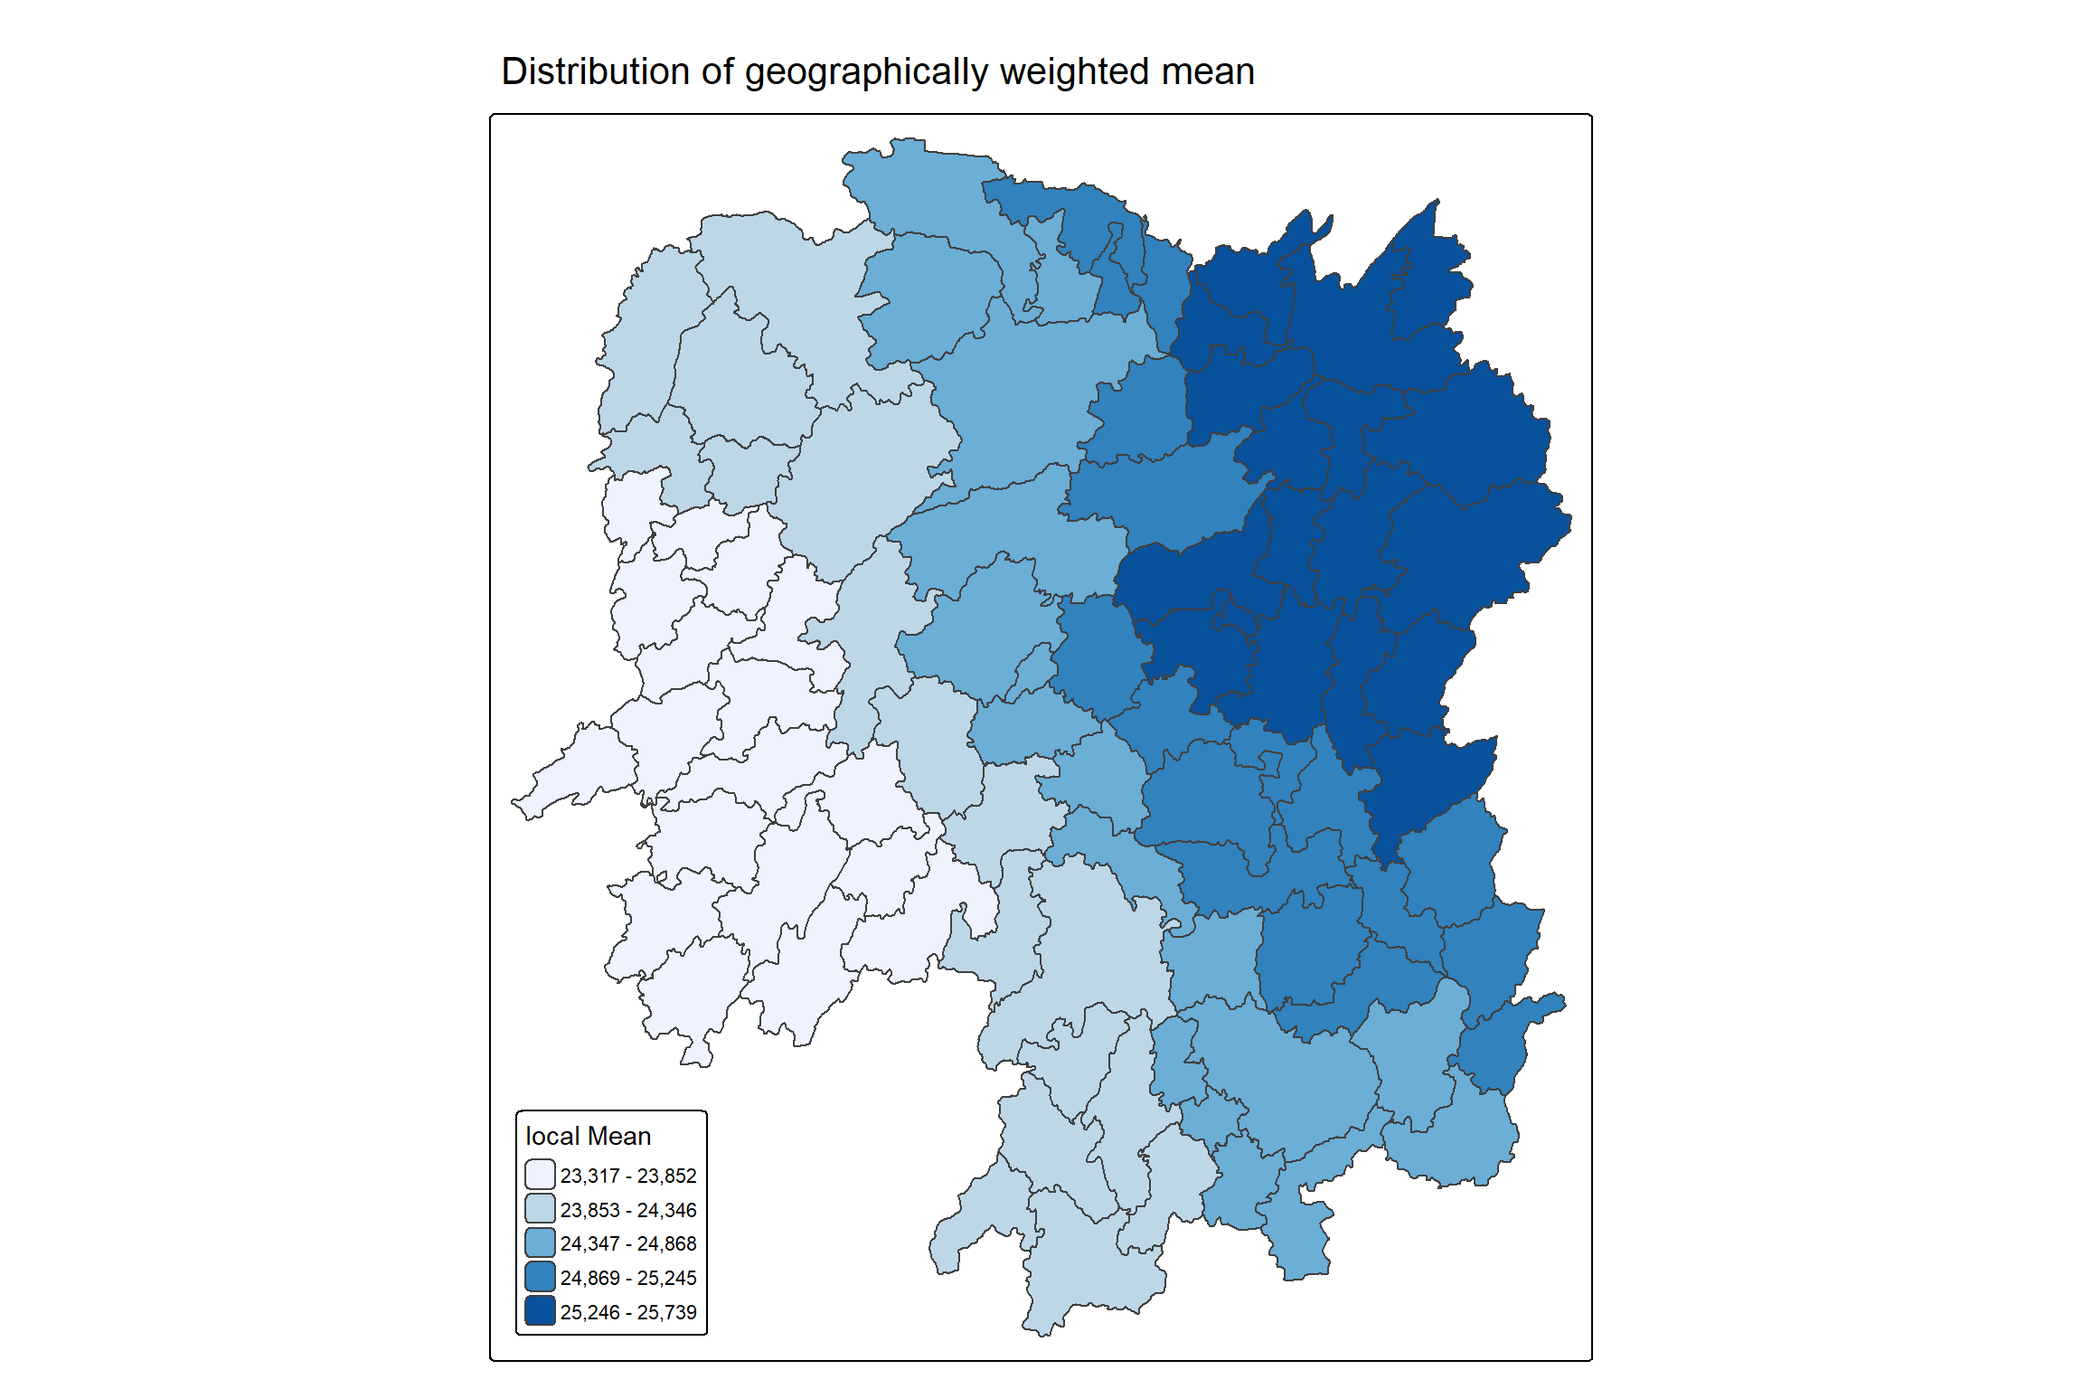
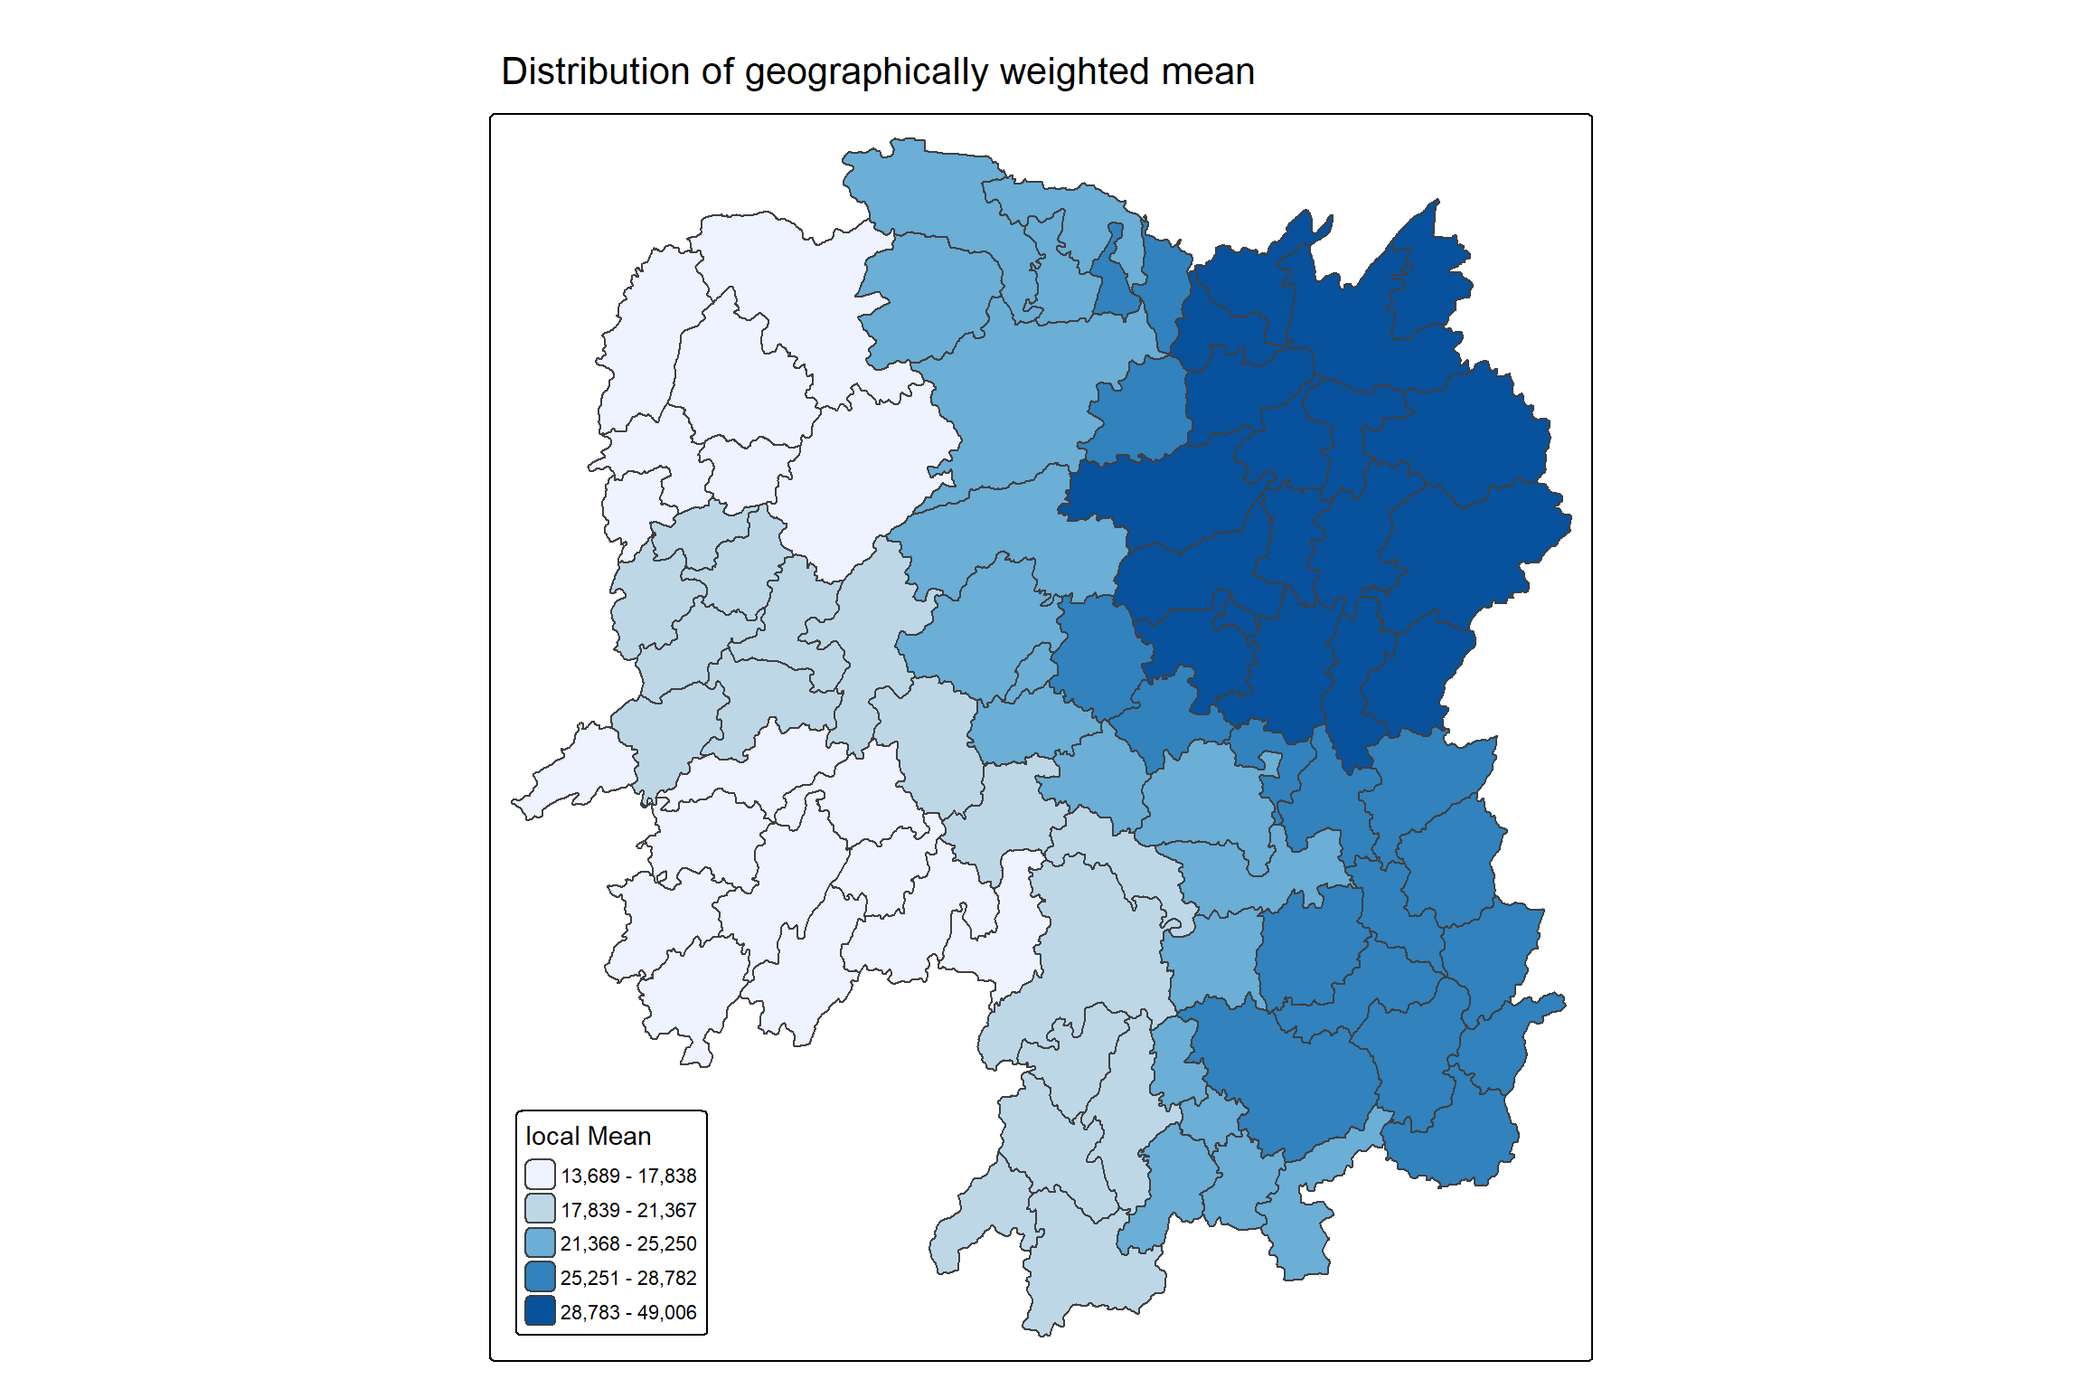
Commit after amending In-class_Ex04

diff --git a/_site/In-class_Ex/In-class_Ex04/In-class_Ex04.html b/_site/In-class_Ex/In-class_Ex04/In-class_Ex04.html
@@ -224,12 +224,12 @@ pre > code.sourceCode > span > a:first-child::before { text-decoration: underlin
   </ul></li>
   <li><a href="#visualising-regional-development-indicator" id="toc-visualising-regional-development-indicator" class="nav-link" data-scroll-target="#visualising-regional-development-indicator">4 Visualising Regional Development Indicator</a></li>
   <li><a href="#converting-to-spatial-polygon-dataframe" id="toc-converting-to-spatial-polygon-dataframe" class="nav-link" data-scroll-target="#converting-to-spatial-polygon-dataframe">5 Converting to Spatial Polygon DataFrame</a></li>
-  <li><a href="#geographically-weighted-summary-statistics-gsww-with-adaptive-bandwidth" id="toc-geographically-weighted-summary-statistics-gsww-with-adaptive-bandwidth" class="nav-link" data-scroll-target="#geographically-weighted-summary-statistics-gsww-with-adaptive-bandwidth">6 Geographically Weighted Summary Statistics (GSWW) with Adaptive Bandwidth</a>
+  <li><a href="#geographically-weighted-summary-statistics-gwss" id="toc-geographically-weighted-summary-statistics-gwss" class="nav-link" data-scroll-target="#geographically-weighted-summary-statistics-gwss">6 Geographically Weighted Summary Statistics (GWSS)</a>
   <ul>
   <li><a href="#determine-adaptive-bandwidth" id="toc-determine-adaptive-bandwidth" class="nav-link" data-scroll-target="#determine-adaptive-bandwidth">6.1 Determine Adaptive Bandwidth</a></li>
   <li><a href="#determine-fixed-bandwidth" id="toc-determine-fixed-bandwidth" class="nav-link" data-scroll-target="#determine-fixed-bandwidth">6.2 Determine Fixed Bandwidth</a></li>
-  <li><a href="#computing-geographically-weighted-summary-statistics" id="toc-computing-geographically-weighted-summary-statistics" class="nav-link" data-scroll-target="#computing-geographically-weighted-summary-statistics">6.3 Computing Geographically Weighted Summary Statistics</a></li>
-  <li><a href="#visualising-geographically-weighted-summary-statistics" id="toc-visualising-geographically-weighted-summary-statistics" class="nav-link" data-scroll-target="#visualising-geographically-weighted-summary-statistics">6.4 Visualising geographically weighted summary statistics</a></li>
+  <li><a href="#computing-gwss" id="toc-computing-gwss" class="nav-link" data-scroll-target="#computing-gwss">6.3 Computing GWSS</a></li>
+  <li><a href="#visualising-gwss" id="toc-visualising-gwss" class="nav-link" data-scroll-target="#visualising-gwss">6.4 Visualising GWSS</a></li>
   </ul></li>
   </ul>
 </nav>
@@ -396,8 +396,8 @@ Geodetic CRS:  WGS 84</code></pre>
 <span id="cb9-2"><a href="#cb9-2" aria-hidden="true" tabindex="-1"></a>  <span class="fu">as_Spatial</span>()</span></code></pre></div><button title="Copy to Clipboard" class="code-copy-button"><i class="bi"></i></button></div>
 </div>
 </section>
-<section id="geographically-weighted-summary-statistics-gsww-with-adaptive-bandwidth" class="level2">
-<h2 class="anchored" data-anchor-id="geographically-weighted-summary-statistics-gsww-with-adaptive-bandwidth">6 Geographically Weighted Summary Statistics (GSWW) with Adaptive Bandwidth</h2>
+<section id="geographically-weighted-summary-statistics-gwss" class="level2">
+<h2 class="anchored" data-anchor-id="geographically-weighted-summary-statistics-gwss">6 Geographically Weighted Summary Statistics (GWSS)</h2>
 <section id="determine-adaptive-bandwidth" class="level3">
 <h3 class="anchored" data-anchor-id="determine-adaptive-bandwidth">6.1 Determine Adaptive Bandwidth</h3>
 <div class="tabset-margin-container"></div><div class="panel-tabset">
@@ -405,7 +405,7 @@ Geodetic CRS:  WGS 84</code></pre>
 <div class="tab-content">
 <div id="tabset-1-1" class="tab-pane active" role="tabpanel" aria-labelledby="tabset-1-1-tab">
 <div class="cell">
-<div class="code-copy-outer-scaffold"><div class="sourceCode cell-code" id="cb10"><pre class="sourceCode r code-with-copy"><code class="sourceCode r"><span id="cb10-1"><a href="#cb10-1" aria-hidden="true" tabindex="-1"></a>bw_CV <span class="ot">&lt;-</span> <span class="fu">bw.gwr</span>(GDPPC <span class="sc">~</span> <span class="dv">1</span>,</span>
+<div class="code-copy-outer-scaffold"><div class="sourceCode cell-code" id="cb10"><pre class="sourceCode r code-with-copy"><code class="sourceCode r"><span id="cb10-1"><a href="#cb10-1" aria-hidden="true" tabindex="-1"></a>abw_CV <span class="ot">&lt;-</span> <span class="fu">bw.gwr</span>(GDPPC <span class="sc">~</span> <span class="dv">1</span>,</span>
 <span id="cb10-2"><a href="#cb10-2" aria-hidden="true" tabindex="-1"></a>                <span class="at">data =</span> hunan_sp,</span>
 <span id="cb10-3"><a href="#cb10-3" aria-hidden="true" tabindex="-1"></a>                <span class="at">approach =</span> <span class="st">"CV"</span>,</span>
 <span id="cb10-4"><a href="#cb10-4" aria-hidden="true" tabindex="-1"></a>                <span class="at">adaptive =</span> <span class="cn">TRUE</span>,</span>
@@ -420,7 +420,7 @@ Adaptive bandwidth: 26 CV score: 13898800611
 Adaptive bandwidth: 22 CV score: 13662299974 
 Adaptive bandwidth: 22 CV score: 13662299974 </code></pre>
 </div>
-<div class="code-copy-outer-scaffold"><div class="sourceCode cell-code" id="cb12"><pre class="sourceCode r code-with-copy"><code class="sourceCode r"><span id="cb12-1"><a href="#cb12-1" aria-hidden="true" tabindex="-1"></a>bw_CV</span></code></pre></div><button title="Copy to Clipboard" class="code-copy-button"><i class="bi"></i></button></div>
+<div class="code-copy-outer-scaffold"><div class="sourceCode cell-code" id="cb12"><pre class="sourceCode r code-with-copy"><code class="sourceCode r"><span id="cb12-1"><a href="#cb12-1" aria-hidden="true" tabindex="-1"></a>abw_CV</span></code></pre></div><button title="Copy to Clipboard" class="code-copy-button"><i class="bi"></i></button></div>
 <div class="cell-output cell-output-stdout">
 <pre><code>[1] 22</code></pre>
 </div>
@@ -428,7 +428,7 @@ Adaptive bandwidth: 22 CV score: 13662299974 </code></pre>
 </div>
 <div id="tabset-1-2" class="tab-pane" role="tabpanel" aria-labelledby="tabset-1-2-tab">
 <div class="cell">
-<div class="code-copy-outer-scaffold"><div class="sourceCode cell-code" id="cb14"><pre class="sourceCode r code-with-copy"><code class="sourceCode r"><span id="cb14-1"><a href="#cb14-1" aria-hidden="true" tabindex="-1"></a>bw_AIC <span class="ot">&lt;-</span> <span class="fu">bw.gwr</span>(GDPPC <span class="sc">~</span> <span class="dv">1</span>,</span>
+<div class="code-copy-outer-scaffold"><div class="sourceCode cell-code" id="cb14"><pre class="sourceCode r code-with-copy"><code class="sourceCode r"><span id="cb14-1"><a href="#cb14-1" aria-hidden="true" tabindex="-1"></a>abw_AIC <span class="ot">&lt;-</span> <span class="fu">bw.gwr</span>(GDPPC <span class="sc">~</span> <span class="dv">1</span>,</span>
 <span id="cb14-2"><a href="#cb14-2" aria-hidden="true" tabindex="-1"></a>                <span class="at">data =</span> hunan_sp,</span>
 <span id="cb14-3"><a href="#cb14-3" aria-hidden="true" tabindex="-1"></a>                <span class="at">approach =</span> <span class="st">"AICc"</span>,</span>
 <span id="cb14-4"><a href="#cb14-4" aria-hidden="true" tabindex="-1"></a>                <span class="at">adaptive =</span> <span class="cn">TRUE</span>,</span>
@@ -443,7 +443,7 @@ Adaptive bandwidth (number of nearest neighbours): 26 AICc value: 1914.897
 Adaptive bandwidth (number of nearest neighbours): 22 AICc value: 1914.045 
 Adaptive bandwidth (number of nearest neighbours): 22 AICc value: 1914.045 </code></pre>
 </div>
-<div class="code-copy-outer-scaffold"><div class="sourceCode cell-code" id="cb16"><pre class="sourceCode r code-with-copy"><code class="sourceCode r"><span id="cb16-1"><a href="#cb16-1" aria-hidden="true" tabindex="-1"></a>bw_AIC</span></code></pre></div><button title="Copy to Clipboard" class="code-copy-button"><i class="bi"></i></button></div>
+<div class="code-copy-outer-scaffold"><div class="sourceCode cell-code" id="cb16"><pre class="sourceCode r code-with-copy"><code class="sourceCode r"><span id="cb16-1"><a href="#cb16-1" aria-hidden="true" tabindex="-1"></a>abw_AIC</span></code></pre></div><button title="Copy to Clipboard" class="code-copy-button"><i class="bi"></i></button></div>
 <div class="cell-output cell-output-stdout">
 <pre><code>[1] 22</code></pre>
 </div>
@@ -459,7 +459,7 @@ Adaptive bandwidth (number of nearest neighbours): 22 AICc value: 1914.045 </cod
 <div class="tab-content">
 <div id="tabset-2-1" class="tab-pane active" role="tabpanel" aria-labelledby="tabset-2-1-tab">
 <div class="cell">
-<div class="code-copy-outer-scaffold"><div class="sourceCode cell-code" id="cb18"><pre class="sourceCode r code-with-copy"><code class="sourceCode r"><span id="cb18-1"><a href="#cb18-1" aria-hidden="true" tabindex="-1"></a>bw_CV <span class="ot">&lt;-</span> <span class="fu">bw.gwr</span>(GDPPC <span class="sc">~</span> <span class="dv">1</span>,</span>
+<div class="code-copy-outer-scaffold"><div class="sourceCode cell-code" id="cb18"><pre class="sourceCode r code-with-copy"><code class="sourceCode r"><span id="cb18-1"><a href="#cb18-1" aria-hidden="true" tabindex="-1"></a>fbw_CV <span class="ot">&lt;-</span> <span class="fu">bw.gwr</span>(GDPPC <span class="sc">~</span> <span class="dv">1</span>,</span>
 <span id="cb18-2"><a href="#cb18-2" aria-hidden="true" tabindex="-1"></a>                <span class="at">data =</span> hunan_sp,</span>
 <span id="cb18-3"><a href="#cb18-3" aria-hidden="true" tabindex="-1"></a>                <span class="at">approach =</span> <span class="st">"CV"</span>,</span>
 <span id="cb18-4"><a href="#cb18-4" aria-hidden="true" tabindex="-1"></a>                <span class="at">adaptive =</span> <span class="cn">FALSE</span>,</span>
@@ -501,7 +501,7 @@ Fixed bandwidth: 76.29138 CV score: 13442844676
 Fixed bandwidth: 76.29126 CV score: 13442844676 
 Fixed bandwidth: 76.29123 CV score: 13442844676 </code></pre>
 </div>
-<div class="code-copy-outer-scaffold"><div class="sourceCode cell-code" id="cb20"><pre class="sourceCode r code-with-copy"><code class="sourceCode r"><span id="cb20-1"><a href="#cb20-1" aria-hidden="true" tabindex="-1"></a>bw_CV</span></code></pre></div><button title="Copy to Clipboard" class="code-copy-button"><i class="bi"></i></button></div>
+<div class="code-copy-outer-scaffold"><div class="sourceCode cell-code" id="cb20"><pre class="sourceCode r code-with-copy"><code class="sourceCode r"><span id="cb20-1"><a href="#cb20-1" aria-hidden="true" tabindex="-1"></a>fbw_CV</span></code></pre></div><button title="Copy to Clipboard" class="code-copy-button"><i class="bi"></i></button></div>
 <div class="cell-output cell-output-stdout">
 <pre><code>[1] 76.29126</code></pre>
 </div>
@@ -509,7 +509,7 @@ Fixed bandwidth: 76.29123 CV score: 13442844676 </code></pre>
 </div>
 <div id="tabset-2-2" class="tab-pane" role="tabpanel" aria-labelledby="tabset-2-2-tab">
 <div class="cell">
-<div class="code-copy-outer-scaffold"><div class="sourceCode cell-code" id="cb22"><pre class="sourceCode r code-with-copy"><code class="sourceCode r"><span id="cb22-1"><a href="#cb22-1" aria-hidden="true" tabindex="-1"></a>bw_AIC <span class="ot">&lt;-</span> <span class="fu">bw.gwr</span>(GDPPC <span class="sc">~</span> <span class="dv">1</span>,</span>
+<div class="code-copy-outer-scaffold"><div class="sourceCode cell-code" id="cb22"><pre class="sourceCode r code-with-copy"><code class="sourceCode r"><span id="cb22-1"><a href="#cb22-1" aria-hidden="true" tabindex="-1"></a>fbw_AIC <span class="ot">&lt;-</span> <span class="fu">bw.gwr</span>(GDPPC <span class="sc">~</span> <span class="dv">1</span>,</span>
 <span id="cb22-2"><a href="#cb22-2" aria-hidden="true" tabindex="-1"></a>                <span class="at">data =</span> hunan_sp,</span>
 <span id="cb22-3"><a href="#cb22-3" aria-hidden="true" tabindex="-1"></a>                <span class="at">approach =</span> <span class="st">"AICc"</span>,</span>
 <span id="cb22-4"><a href="#cb22-4" aria-hidden="true" tabindex="-1"></a>                <span class="at">adaptive =</span> <span class="cn">FALSE</span>,</span>
@@ -530,7 +530,7 @@ Fixed bandwidth: 159.4419 AICc value: 1919.393
 Fixed bandwidth: 162.3475 AICc value: 1919.394 
 Fixed bandwidth: 160.5517 AICc value: 1919.391 </code></pre>
 </div>
-<div class="code-copy-outer-scaffold"><div class="sourceCode cell-code" id="cb24"><pre class="sourceCode r code-with-copy"><code class="sourceCode r"><span id="cb24-1"><a href="#cb24-1" aria-hidden="true" tabindex="-1"></a>bw_AIC</span></code></pre></div><button title="Copy to Clipboard" class="code-copy-button"><i class="bi"></i></button></div>
+<div class="code-copy-outer-scaffold"><div class="sourceCode cell-code" id="cb24"><pre class="sourceCode r code-with-copy"><code class="sourceCode r"><span id="cb24-1"><a href="#cb24-1" aria-hidden="true" tabindex="-1"></a>fbw_AIC</span></code></pre></div><button title="Copy to Clipboard" class="code-copy-button"><i class="bi"></i></button></div>
 <div class="cell-output cell-output-stdout">
 <pre><code>[1] 160.5517</code></pre>
 </div>
@@ -539,13 +539,13 @@ Fixed bandwidth: 160.5517 AICc value: 1919.391 </code></pre>
 </div>
 </div>
 </section>
-<section id="computing-geographically-weighted-summary-statistics" class="level3">
-<h3 class="anchored" data-anchor-id="computing-geographically-weighted-summary-statistics">6.3 Computing Geographically Weighted Summary Statistics</h3>
+<section id="computing-gwss" class="level3">
+<h3 class="anchored" data-anchor-id="computing-gwss">6.3 Computing GWSS</h3>
 <p>The code chunk below computes geographically weighted summary statistics by using <code>gwss()</code> of GWmodel package. The analysis is performed using adaptive distance weighted. The distance is derived using AICc method and the kernel method used is <strong>bisquare</strong>.</p>
 <div class="cell">
 <div class="code-copy-outer-scaffold"><div class="sourceCode cell-code" id="cb26"><pre class="sourceCode r code-with-copy"><code class="sourceCode r"><span id="cb26-1"><a href="#cb26-1" aria-hidden="true" tabindex="-1"></a>gwstat <span class="ot">&lt;-</span> <span class="fu">gwss</span>(<span class="at">data =</span> hunan_sp,</span>
 <span id="cb26-2"><a href="#cb26-2" aria-hidden="true" tabindex="-1"></a>               <span class="at">vars =</span> <span class="st">"GDPPC"</span>,</span>
-<span id="cb26-3"><a href="#cb26-3" aria-hidden="true" tabindex="-1"></a>               <span class="at">bw =</span> bw_AIC,</span>
+<span id="cb26-3"><a href="#cb26-3" aria-hidden="true" tabindex="-1"></a>               <span class="at">bw =</span> abw_AIC,</span>
 <span id="cb26-4"><a href="#cb26-4" aria-hidden="true" tabindex="-1"></a>               <span class="at">kernel =</span> <span class="st">"bisquare"</span>,</span>
 <span id="cb26-5"><a href="#cb26-5" aria-hidden="true" tabindex="-1"></a>               <span class="at">quantile =</span> <span class="cn">TRUE</span>,</span>
 <span id="cb26-6"><a href="#cb26-6" aria-hidden="true" tabindex="-1"></a>               <span class="at">adaptive =</span> <span class="cn">TRUE</span>,</span>
@@ -561,7 +561,7 @@ Note
 </div>
 </div>
 <div class="callout-body-container callout-body">
-<p>gwss support five kernel methods, namely gaussian, exponential, bisquare, tricube, and boxcar.</p>
+<p><code>gwss()</code> supports five kernel methods, namely gaussian, exponential, bisquare, tricube, and boxcar.</p>
 </div>
 </div>
 <p>The code chunk below is used to extract <strong>SDF</strong> data table from <strong>gwss</strong> object output from <code>gwss()</code> for subsequent geovisualisation. It will be converted into data.frame by using <code>as.data.frame()</code>.</p>
@@ -573,8 +573,8 @@ Note
 <div class="code-copy-outer-scaffold"><div class="sourceCode cell-code" id="cb28"><pre class="sourceCode r code-with-copy"><code class="sourceCode r"><span id="cb28-1"><a href="#cb28-1" aria-hidden="true" tabindex="-1"></a>hunan_gstat <span class="ot">&lt;-</span> <span class="fu">cbind</span>(hunan_sf, gwstat_df)</span></code></pre></div><button title="Copy to Clipboard" class="code-copy-button"><i class="bi"></i></button></div>
 </div>
 </section>
-<section id="visualising-geographically-weighted-summary-statistics" class="level3">
-<h3 class="anchored" data-anchor-id="visualising-geographically-weighted-summary-statistics">6.4 Visualising geographically weighted summary statistics</h3>
+<section id="visualising-gwss" class="level3">
+<h3 class="anchored" data-anchor-id="visualising-gwss">6.4 Visualising GWSS</h3>
 <div class="cell">
 <div class="code-copy-outer-scaffold"><div class="sourceCode cell-code" id="cb29"><pre class="sourceCode r code-with-copy"><code class="sourceCode r"><span id="cb29-1"><a href="#cb29-1" aria-hidden="true" tabindex="-1"></a><span class="fu">tm_shape</span>(hunan_gstat) <span class="sc">+</span></span>
 <span id="cb29-2"><a href="#cb29-2" aria-hidden="true" tabindex="-1"></a>  <span class="fu">tm_polygons</span>(<span class="at">fill =</span> <span class="st">"GDPPC_LM"</span>,</span>
